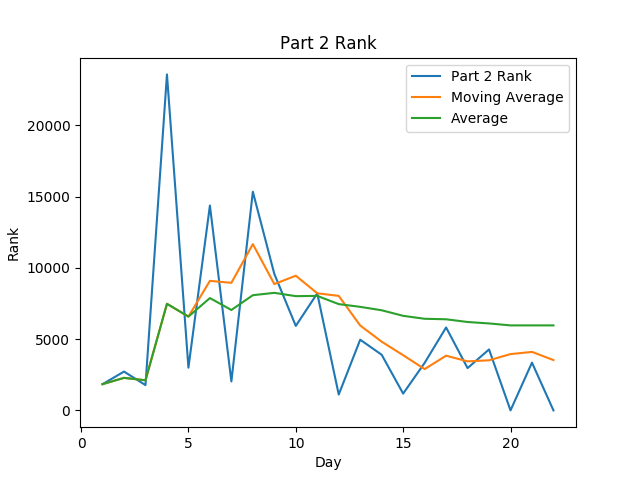
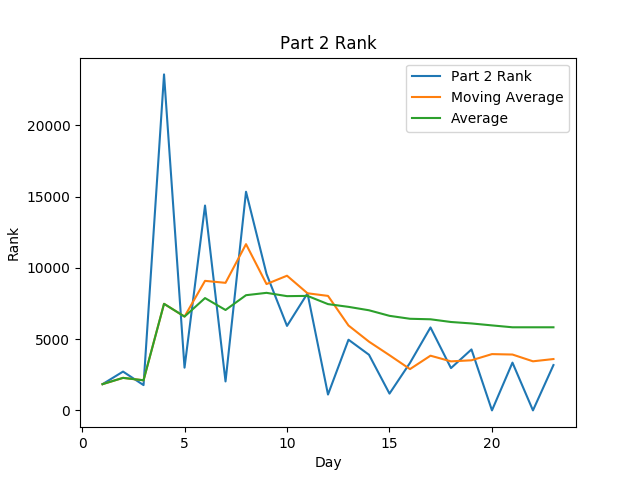
Finalize (Until I have more free time)

diff --git a/README.md b/README.md
@@ -1,5 +1,6 @@
 # AoC-2019
-[Advent of Code](adventofcode.com) Solutions for 2019. This is my first year doing Advent of Code, used it as an opportunity to learn Go(lang)
+[Advent of Code](adventofcode.com) Solutions for 2019. This was my first year doing Advent of Code, I used it as an opportunity to learn Go(lang).
+Some days were left incomplete, I hope to come back to complete them at some point when I have more time.
 
 ## Highlights:
 
@@ -9,6 +10,7 @@
 the language. 
 * Day 7's multithreading was my first time doing a real application of simultaneous calculations
 * A working block breaker with a basic AI? That's so cool!!
+* Loved the work put into IntCode by the creators of AoC. It was amazing what it could do.
 
 #### Interesting approaches:
 
@@ -16,10 +18,6 @@ the language.
 inhibit concurrent map access, so I landed on a strategy of tracking wire distance along with the wire that interacted with the coordinate
 before and comparing the combined steps from that. I am sure there are more efficient solutions and I have a few ideas for how I would do
 it in OOP, but this is good enough for now!
-
-#### Leaderboard appearances:
-
-* Not likely given that I'm only just learning Go, but you never know...
 
 ## Stats
 | Day | Part 1 Time (Rank) (Score) | Part 2 Time (Rank) (Score) |
@@ -44,8 +42,8 @@ it in OOP, but this is good enough for now!
 |  18 | 24:00:00 ( 3520) (  0)     | 24:00:00 ( 2967) (  0)     |
 |  19 | 24:00:00 ( 4939) (  0)     | 24:00:00 ( 4276) (  0)     |
 |  21 | 24:00:00 ( 3649) (  0)     | 24:00:00 ( 3351) (  0)     |
-|  23 | 24:00:00 ( 3251) (  0)     | Unfinished                 |
-| Avg | 14:11:02 ( 6610) (  0)     | 11:16:08 ( 5679) (  0)     |
+|  23 | 24:00:00 ( 3251) (  0)     | 24:00:00 ( 3180) (  0)     |
+| Avg | 14:11:02 ( 6610) (  0)     | 12:24:42 ( 5830) (  0)     |
 
 
 <img alt="Part 1 Time Stats" src="statsImages/part1time.png" width=400> <img alt="Part 1 Rank" src="statsImages/part1rank.png" width=400>

diff --git a/README_template.md b/README_template.md
@@ -1,5 +1,6 @@
 # AoC-2019
-[Advent of Code](adventofcode.com) Solutions for 2019. This is my first year doing Advent of Code, used it as an opportunity to learn Go(lang)
+[Advent of Code](adventofcode.com) Solutions for 2019. This was my first year doing Advent of Code, I used it as an opportunity to learn Go(lang).
+Some days were left incomplete, I hope to come back to complete them at some point when I have more time.
 
 ## Highlights:
 
@@ -9,6 +10,7 @@
 the language. 
 * Day 7's multithreading was my first time doing a real application of simultaneous calculations
 * A working block breaker with a basic AI? That's so cool!!
+* Loved the work put into IntCode by the creators of AoC. It was amazing what it could do.
 
 #### Interesting approaches:
 
@@ -16,10 +18,6 @@ the language.
 inhibit concurrent map access, so I landed on a strategy of tracking wire distance along with the wire that interacted with the coordinate
 before and comparing the combined steps from that. I am sure there are more efficient solutions and I have a few ideas for how I would do
 it in OOP, but this is good enough for now!
-
-#### Leaderboard appearances:
-
-* Not likely given that I'm only just learning Go, but you never know...
 
 ## Stats
 STATS_TABLE
